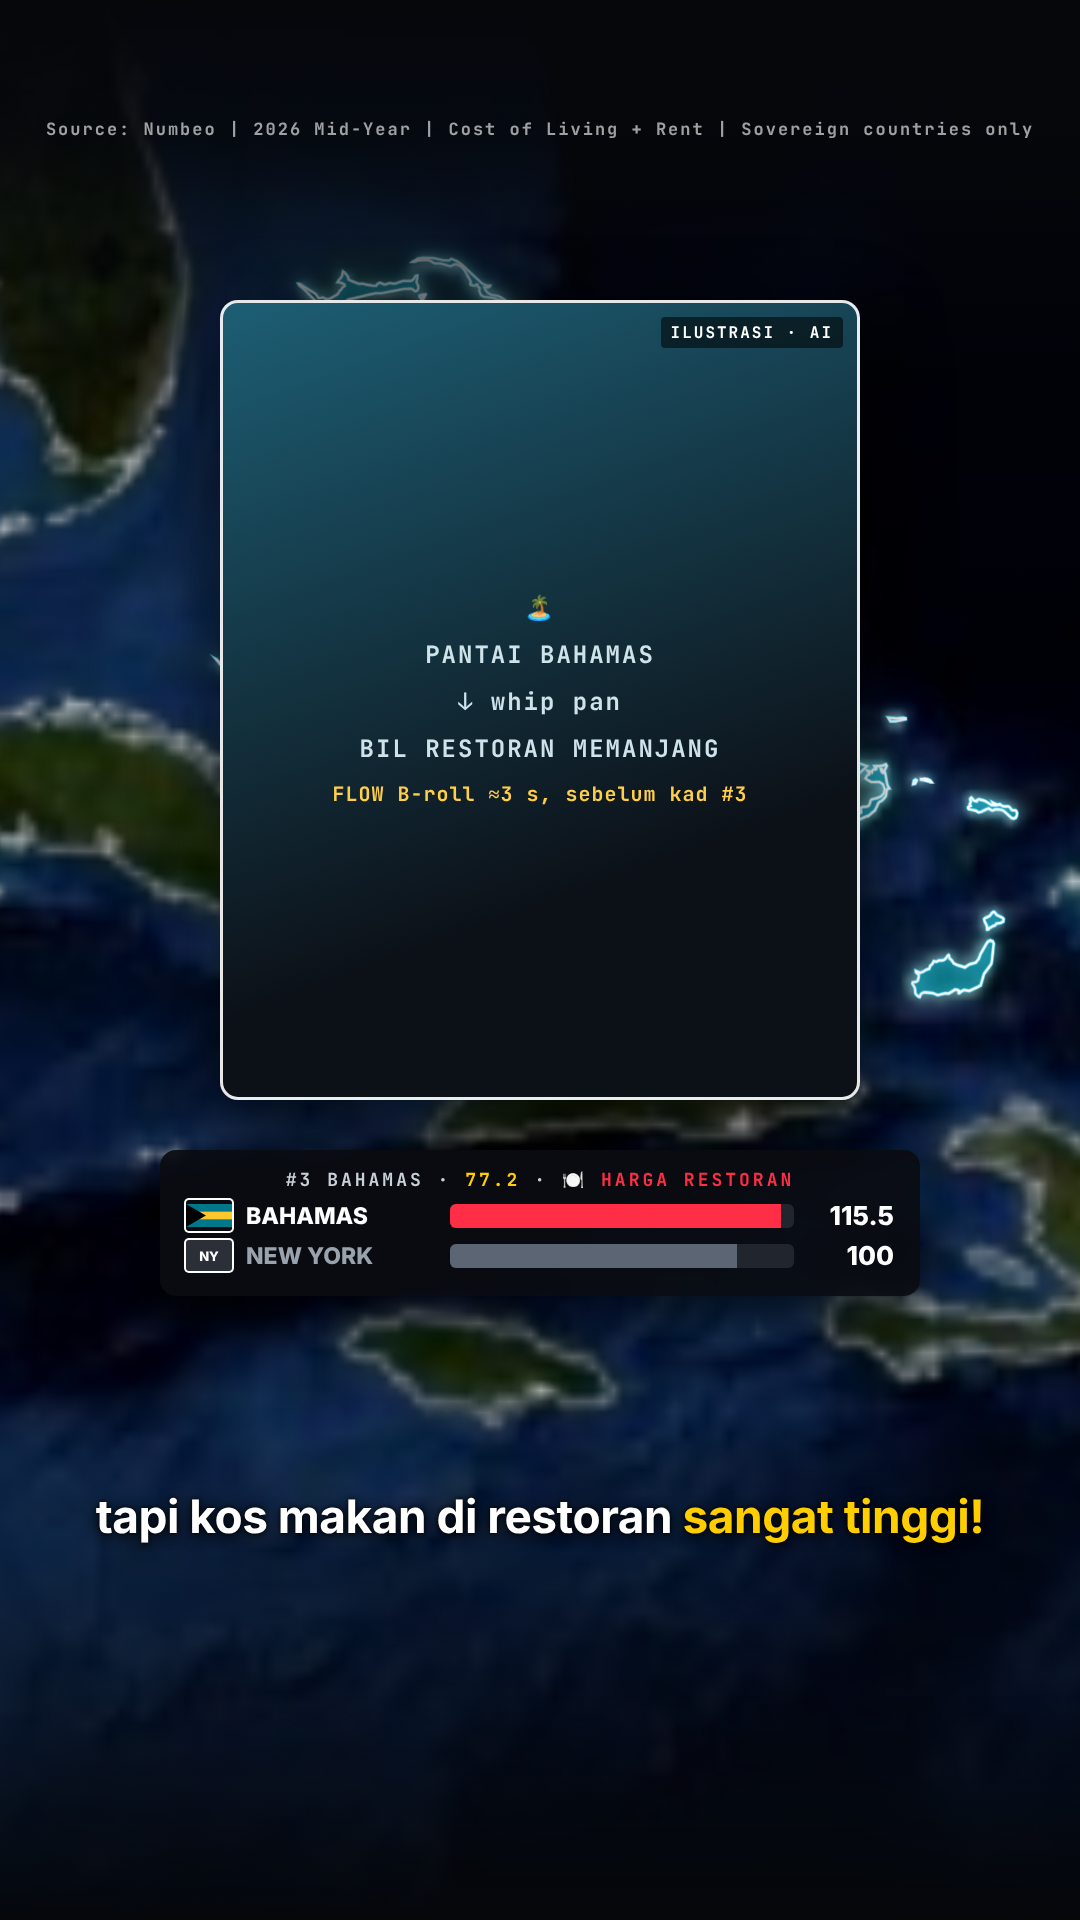
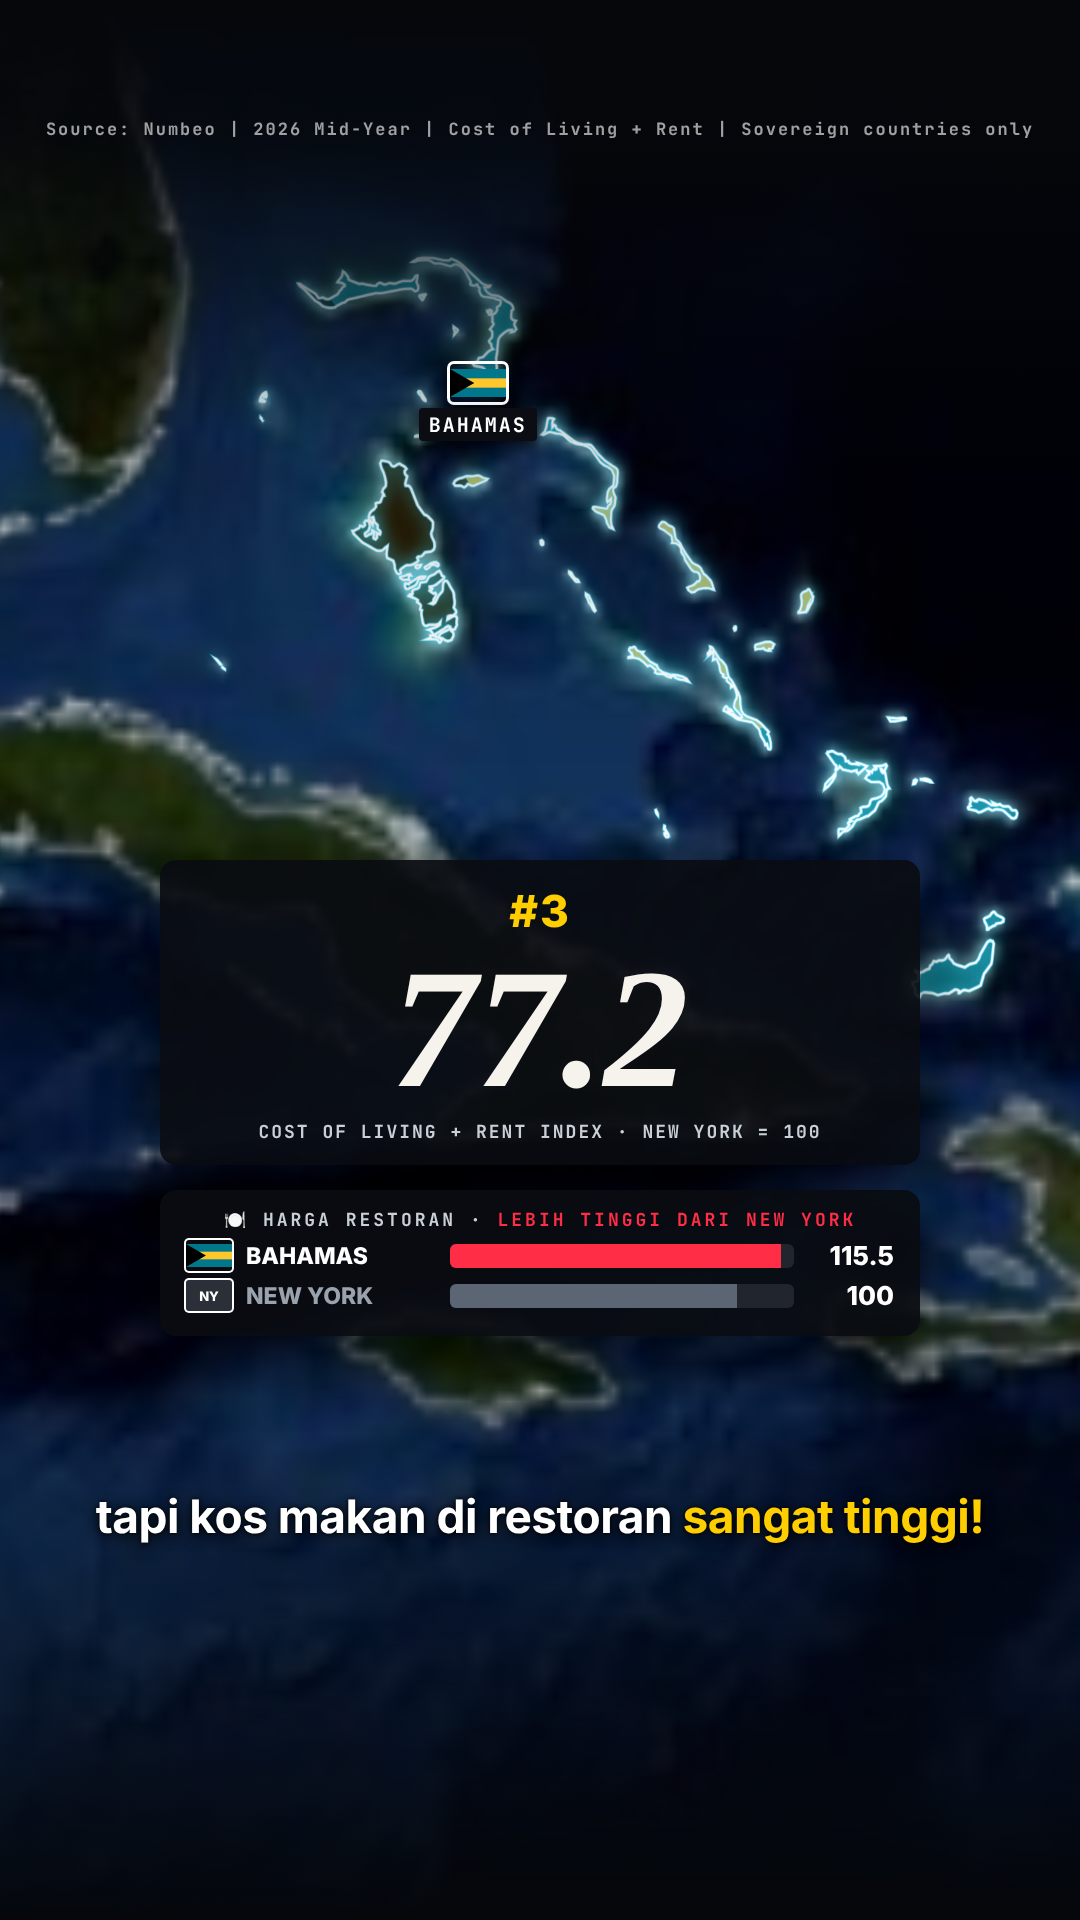
negara-mahal-video: drop B-roll, Bahamas as a normal map + rank card
Claude-Session: https://claude.ai/code/session_01GRVCpVLeEipRvyW43UFZDP

Changed region(s): [[0.1222, 0.1562, 0.8861, 0.7188]]

diff --git a/negara-mahal-video/boards/storyboard.html b/negara-mahal-video/boards/storyboard.html
@@ -23,14 +23,14 @@ h1{font:800 46px Inter;letter-spacing:-1px}h1 span{color:#ffce00}
 <div class="f"><img src="frame-01.png"><div><div class="n">01 · 0:00</div><div class="t">Hook A: resit</div><div class="vo">"Kau ingat Amerika atau Jepun negara paling mahal untuk hidup?"</div><div class="fx">Resit panjang terjulur, 5 tanda harga <b>merah</b> terbang masuk. Bunyi printer + tick laju.</div></div></div>
 <div class="f"><img src="frame-02.png"><div><div class="n">02 · 0:02</div><div class="t">Hook B: SALAH</div><div class="vo">"Salah! Dua-dua tak masuk Top 5. Dan nombor lima ni memang tak disangka!"</div><div class="fx">Glob pusing AS → Jepun, bendera, <b>impact hit</b> + cop <b>✕ SALAH</b>. Tajuk <b>DUA-DUA TAK MASUK TOP 5</b>.</div></div></div>
 <div class="f"><img src="frame-03.png"><div><div class="n">03 · 0:05</div><div class="t">Tajuk</div><div class="vo">"Ini lima negara paling mahal untuk hidup tahun 2026, termasuk kos sewa rumah!"</div><div class="fx">Glob dari gelap, <b>tiada negara ditanda</b>. <b>TOP 5</b> emas, chip <b>2026 · TERMASUK SEWA</b>.</div></div></div>
-<div class="f"><img src="frame-04.png"><div><div class="n">04 · 0:07</div><div class="t">#5 Turkmenistan</div><div class="vo">"Nombor lima, Turkmenistan! Indeks 66.1. Peliknya, indeks harga barang dapur… lebih tinggi daripada New York!"</div><div class="fx">Fly-to + B-roll AI Ashgabat 2 s. <b>#5 · 66.1</b> count-up, bar <b>116.3 vs NY 100</b>.</div></div></div>
-<div class="f"><img src="frame-05.png"><div><div class="n">05 · 0:13</div><div class="t">#4 Iceland</div><div class="vo">"Nombor empat, Iceland! Indeks 74.8. Pemandangan memang cantik, tapi harga barang dapur boleh buat kau terkejut!"</div><div class="fx"><b>Snow/smoke dissolve</b>, B-roll AI lava + salji. <b>#4 · 74.8</b>, 🛒 <b>106.3 vs 100</b>.</div></div></div>
-<div class="f"><img src="frame-06.png"><div><div class="n">06 · 0:18</div><div class="t">#3 Bahamas</div><div class="vo">"Nombor tiga, Bahamas! Indeks 77.2. Nampak macam syurga percutian, tapi kos makan di restoran sangat tinggi!"</div><div class="fx">Tetingkap B-roll: <b>pantai → whip pan → bil restoran</b>. <b>#3 · 77.2</b>, 🍽 <b>115.5 vs 100</b>.</div></div></div>
+<div class="f"><img src="frame-04.png"><div><div class="n">04 · 0:07</div><div class="t">#5 Turkmenistan</div><div class="vo">"Nombor lima, Turkmenistan! Indeks 66.1. Peliknya, indeks harga barang dapur… lebih tinggi daripada New York!"</div><div class="fx">Fly-to Asia Tengah, bendera isi negara. <b>#5 · 66.1</b> count-up, bar <b>116.3 vs NY 100</b>.</div></div></div>
+<div class="f"><img src="frame-05.png"><div><div class="n">05 · 0:13</div><div class="t">#4 Iceland</div><div class="vo">"Nombor empat, Iceland! Indeks 74.8. Pemandangan memang cantik, tapi harga barang dapur boleh buat kau terkejut!"</div><div class="fx"><b>Snow/smoke dissolve</b> + salji halus, bendera. <b>#4 · 74.8</b>, 🛒 <b>106.3 vs 100</b>.</div></div></div>
+<div class="f"><img src="frame-06.png"><div><div class="n">06 · 0:18</div><div class="t">#3 Bahamas</div><div class="vo">"Nombor tiga, Bahamas! Indeks 77.2. Nampak macam syurga percutian, tapi kos makan di restoran sangat tinggi!"</div><div class="fx"><b>Whip pan</b> ke Caribbean, pulau bercahaya biru. <b>#3 · 77.2</b>, 🍽 <b>115.5 vs 100</b>.</div></div></div>
 <div class="f"><img src="frame-07.png"><div><div class="n">07 · 0:24</div><div class="t">Re-hook</div><div class="vo">"Tapi tunggu! Negara nombor dua ni sebenarnya jiran sebelah Malaysia. Dan nombor satu… bukan negara Arab yang kaya minyak!"</div><div class="fx"><b>Muzik dip, freeze 0.4 s</b>, heartbeat + boom. Zum ke Asia Tenggara, <b>?</b> emas. <b>#2 = JIRAN KITA · #1 = ?</b></div></div></div>
-<div class="f"><img src="frame-08.png"><div><div class="n">08 · 0:29</div><div class="t">#2 Singapura</div><div class="vo">"Nombor dua, Singapura! Indeks 80.5. Kos sewa rumah memang antara yang tertinggi dalam senarai ni!"</div><div class="fx">Cincin emas, bendera, B-roll AI HDB 2 s. <b>#2 · 80.5</b>, 🏠 sewa SG <b>68.3</b> paling panjang.</div></div></div>
+<div class="f"><img src="frame-08.png"><div><div class="n">08 · 0:29</div><div class="t">#2 Singapura</div><div class="vo">"Nombor dua, Singapura! Indeks 80.5. Kos sewa rumah memang antara yang tertinggi dalam senarai ni!"</div><div class="fx">Cincin emas, bendera. <b>#2 · 80.5</b>, 🏠 sewa SG <b>68.3</b> paling panjang.</div></div></div>
 <div class="f"><img src="frame-09.png"><div><div class="n">09 · 0:35</div><div class="t">#1 Switzerland</div><div class="vo">"Dan nombor satu… Switzerland! Indeks 81.5. …kuasa beli penduduknya juga antara yang paling kuat!"</div><div class="fx">0.5 s senyap → <b>flash emas, cinematic hit</b>, kad 👑 <b>#1 · 81.5</b> bingkai emas. Kuasa beli <b>165.7 · #4 DI DUNIA</b>.</div></div></div>
 <div class="f"><img src="frame-10.png"><div><div class="n">10 · 0:43</div><div class="t">Plot twist</div><div class="vo">"Malaysia pula? Indeks kita cuma 22.4!"</div><div class="fx">Glob <b>fly home</b>. Dua kad masuk dari kiri dan kanan: <b>MALAYSIA 22.4 vs SINGAPURA 80.5</b>.</div></div></div>
 <div class="f"><img src="frame-11.png"><div><div class="n">11 · 0:48</div><div class="t">CTA tunggal</div><div class="vo">"Jadi kalau diberi peluang dengan gaji yang sama, kau pilih hidup di Malaysia atau Singapura? Komen pilihan kau!"</div><div class="fx">Satu kad soalan bingkai emas, <b>KOMEN PILIHAN KAU ↓</b>. Tiada sticker lain, tiada outro follow.</div></div></div>
 </div>
-<div class="meta" style="margin-top:30px">#1 tak muncul sebelum 0:35 · setiap negara ada transisi dan bar perbandingan sendiri · count-up indeks · B-roll AI dalam tetingkap kecil · satu CTA sahaja</div>
+<div class="meta" style="margin-top:30px">#1 tak muncul sebelum 0:35 · setiap negara ada transisi dan bar perbandingan sendiri · count-up indeks · satu CTA sahaja</div>
 </body></html>

diff --git a/negara-mahal-video/boards/frame.html b/negara-mahal-video/boards/frame.html
@@ -266,9 +266,8 @@ const FR = {
     capB(`lima negara <span class="r">paling mahal</span> untuk hidup`); },
   4() { SC.tm(); capB(`Nombor lima, <span class="r">Turkmenistan!</span>`); },
   5() { SC.is(); capB(`harga barang dapur boleh buat kau <span class="r">terkejut!</span>`); },
-  6() { fill("bs", { glow: "#41e0ff", lw: 2.5 }); g.setView({ lat: 24.6, lon: -76.8, dist: 0.5, tilt: 14, yShift: 0.22 }); src();
-    html(`<div class="win2"><i>ILUSTRASI · AI</i>🏝<div>PANTAI BAHAMAS</div><div>↓ whip pan</div><div>BIL RESTORAN MEMANJANG</div><em>FLOW B-roll ≈3 s, sebelum kad #3</em></div>`);
-    cmp(1150, "#3 BAHAMAS · <span style='color:#ffce00'>77.2</span> · 🍽 <b>HARGA RESTORAN</b>", [["bs", "BAHAMAS", 115.5, "hot"], ["ny", "NEW YORK", 100]], 120);
+  6() { fill("bs", { glow: "#41e0ff", lw: 2.5 }); g.setView({ lat: 24.6, lon: -76.8, dist: 0.5, tilt: 14, yShift: 0.22 }); flagPin(25.05, -77.35, "bs", "BAHAMAS", -40); src();
+    rank(3, "77.2"); cmp(1190, "🍽 HARGA RESTORAN · <b>LEBIH TINGGI DARI NEW YORK</b>", [["bs", "BAHAMAS", 115.5, "hot"], ["ny", "NEW YORK", 100]], 120);
     capB(`tapi kos makan di restoran <span class="r">sangat tinggi!</span>`); },
   7() { malaysiaFlag(); fill("sg", { alpha: 0, glow: "#ffce00", lw: 4 }); g.setView({ lat: 3.6, lon: 106, dist: 1.15, tilt: 8, yShift: 0.12 });
     const p = g.project(1.35, 103.82); html(`<div class="qpin" style="left:${p.x}px;top:${p.y + 40}px;border-color:#ffce00;color:#ffce00">?</div>`);

diff --git a/negara-mahal-video/SCRIPT.md b/negara-mahal-video/SCRIPT.md
@@ -3,7 +3,7 @@
 Gaya: **MAP ANIMATION**, kiraan menurun 5 → 1 (enjin dan rupa video nuklear), **ikut brief ChatGPT**
 (`CLAUDE_BRIEF_TOP5_NEGARA_PALING_MAHAL_HIDUP_2026.md`): palet navy/charcoal + emas + putih hangat, merah hanya
 untuk harga; hook resit; kad tajuk; re-hook; reveal #1 emas; Malaysia vs Singapura bersebelahan; satu CTA sahaja.
-Tiada karikatur. Sasaran 50–55 s. Data disemak semula: `research/top5-negara-mahal-2026.md`.
+Tiada karikatur, **tiada B-roll** (peta + kad sahaja, macam biasa). Sasaran 50–55 s. Data disemak semula: `research/top5-negara-mahal-2026.md`.
 
 ## 1. VO final (skrip ChatGPT, fakta semua ✅)
 
@@ -42,12 +42,12 @@ Switzerland kuasa beli 165.7 = **nombor 4 di dunia** (selepas Angola, Kuwait, Qa
 | 0:00–0:02.5 | Hook A | Resit panjang terjulur dari atas, 5 tanda harga merah terbang masuk, glob gelap di belakang | Cut keras dari hitam | Bunyi printer resit, tick harga laju | (tiada, hanya sari kata) |
 | 0:02.5–0:05 | Hook B | Glob pusing laju AS → Jepun, bendera isi negara | Resit dirobek ke atas, whoosh | **Impact hit pada "Salah!"**, cop ✕ SALAH ×2 | **DUA-DUA TAK MASUK TOP 5** |
 | 0:05–0:07 | Tajuk | Glob tarik keluar dari gelap, **tiada negara ditanda** | Flash putih halus | Dramatic whoosh, beat masuk | **TOP 5** emas · NEGARA PALING MAHAL UNTUK HIDUP · chip `2026 · TERMASUK SEWA` |
-| 0:07–0:13 | #5 Turkmenistan | Fly-to Asia Tengah, zum punch pada nombor; B-roll AI Ashgabat 2 s | Map whoosh | Number ticks count-up 0→66.1 | `#5` · **66.1** · bar barang dapur 116.3 vs NY 100 (merah) |
-| 0:13–0:18 | #4 Iceland | Fly-to Atlantik Utara; B-roll AI salji/lava 2 s | **Snow/smoke dissolve** (bukan cut macam #5) | Angin sejuk, ticks | `#4` · **74.8** · 🛒 106.3 vs 100 |
-| 0:18–0:24 | #3 Bahamas | Pulau bercahaya biru; tetingkap B-roll: pantai → whip pan → resit restoran memanjang | Whip pan | Ombak → cash register "ka-ching" | `#3` · **77.2** · 🍽 115.5 vs 100 |
+| 0:07–0:13 | #5 Turkmenistan | Fly-to Asia Tengah, bendera isi negara, zum punch pada nombor | Map whoosh | Number ticks count-up 0→66.1 | `#5` · **66.1** · bar barang dapur 116.3 vs NY 100 (merah) |
+| 0:13–0:18 | #4 Iceland | Fly-to Atlantik Utara, bendera, partikel salji halus di depan kamera | **Snow/smoke dissolve** (bukan cut macam #5) | Angin sejuk, ticks | `#4` · **74.8** · 🛒 106.3 vs 100 |
+| 0:18–0:24 | #3 Bahamas | Fly-to Caribbean, pulau-pulau bercahaya biru, bendera | Whip pan | Ombak → cash register "ka-ching" | `#3` · **77.2** · 🍽 115.5 vs 100 |
 | 0:24–0:29 | Re-hook | **Muzik dip, freeze 0.4 s**, glob pusing pantas ke Asia Tenggara; Malaysia bendera, bulatan emas **?** di selatan | Zum laju + vignette navy | Heartbeat + low boom, riser | **TAPI TUNGGU… · #2 = JIRAN KITA · #1 = ?** · BUKAN NEGARA ARAB KAYA MINYAK |
-| 0:29–0:35 | #2 Singapura | Zum ke selatan Semenanjung, cincin emas, bendera; B-roll AI HDB/skyline 2 s | Push-in | Riser lepas, ticks | `#2` · **80.5** · 🏠 bar sewa 4 negara, SG 68.3 paling panjang |
-| 0:35–0:43 | #1 Switzerland | Pause, terbang ke Eropah, **tint emas**, slow push-in; B-roll AI Alps 2 s | Gold light sweep | **Cinematic hit paling besar**, muzik naik penuh | 👑 `#1` · **81.5** bingkai emas · 💪 kuasa beli 165.7 vs NY 100 · **#4 DI DUNIA** |
+| 0:29–0:35 | #2 Singapura | Zum ke selatan Semenanjung, cincin emas, bendera | Push-in | Riser lepas, ticks | `#2` · **80.5** · 🏠 bar sewa 4 negara, SG 68.3 paling panjang |
+| 0:35–0:43 | #1 Switzerland | Pause, terbang ke Eropah, **tint emas**, slow push-in | Gold light sweep | **Cinematic hit paling besar**, muzik naik penuh | 👑 `#1` · **81.5** bingkai emas · 💪 kuasa beli 165.7 vs NY 100 · **#4 DI DUNIA** |
 | 0:43–0:48 | Plot twist | Glob "fly home" ke Malaysia, Malaysia + Singapura dilukis serentak | Whoosh pulang | Dua count-up serentak, Malaysia berhenti awal | **MALAYSIA 22.4 vs SINGAPURA 80.5** |
 | 0:48–0:55 | CTA | Glob dim, satu kad soalan bingkai emas | Fade | Muzik turun, satu nada akhir | **KALAU GAJI SAMA: MALAYSIA ATAU SINGAPURA? · KOMEN PILIHAN KAU ↓** |
 
@@ -67,25 +67,7 @@ Sari kata: jalur bawah y≈1490, kata kunci emas. Semua kad tamat ≤ y 1420 (zo
 - **Reveal #1:** 0.5 s senyap → flash emas → kad bingkai emas mendarat dengan shake kecil → light sweep → count-up.
 - **Penutup:** dua kad Malaysia vs Singapura masuk dari kiri dan kanan, kemudian satu kad soalan.
 
-## 4. Prompt Google Flow (visual sahaja, tiada teks/nombor; setiap klip ≤ 8 s, jauh bawah had 15 s)
-
-Semua: *9:16 vertical, cinematic documentary, dark moody grade, no text, no captions, no numbers, no logos, no readable
-signs, no flags, no recognisable real people.* Klip dimainkan dalam tetingkap kecil (640×800) atas peta, label "ILUSTRASI · AI".
-
-| Babak | Image prompt (still / first frame) | Video prompt |
-|---|---|---|
-| Hook | Extreme close-up of a very long paper shopping receipt curling off a counter, a hand pulling cash from a leather wallet beside a full grocery bag, shallow depth of field, warm low light. | Close-up as a long receipt keeps printing and spilling off the counter while price stickers are slapped onto groceries in quick succession, a hand hesitates over an empty wallet, fast handheld push-in, 4 s. |
-| #5 Turkmenistan | Wide view of a city of white marble buildings with gold domes and very wide empty boulevards under a clear desert sky. | Slow aerial drift forward over the white marble city and empty boulevards, then a cut to a market stall with a basket of vegetables and bread, warm afternoon light, 5 s. |
-| #4 Iceland | Black lava field and snowy volcanic mountains above a small colourful town on a fjord, low winter sun. | Aerial glide over snow and steaming lava fields towards the small fjord town, drifting snow in the foreground, then a supermarket trolley rolling slowly down an aisle, 5 s. |
-| #3 Bahamas | Turquoise shallow water, white sand beach and palm trees seen from above, bright sun. | Drone push over the turquoise beach, whip pan into a seaside restaurant where a long paper bill slides across a wooden table next to a seafood plate, 5 s. |
-| #2 Singapura | Dense high-rise public housing blocks at dusk with hundreds of lit windows, modern skyline behind. | Slow upward tilt along a tall apartment block with lit windows to a glowing modern skyline at blue hour, light traffic trails below, 5 s. |
-| #1 Switzerland | Dramatic snowy alpine peaks above a clean lakeside city at golden hour. | Sweeping aerial over the Alps at golden hour, descending towards a calm lake city, sun flare, 6 s. |
-| Plot twist (pilihan) | Warm evening street with shophouses and a hawker stall in a Southeast Asian town, no signs readable. | Gentle forward walk past a busy hawker stall at dusk, steam rising from woks, 4 s. |
-
-Klip Flow masuk ke `assets/broll/` (re-encode `scale=1080:1920,fps=30 -g 15 -an`). Kalau tak sempat buat semua, video
-tetap jalan dengan peta dan kad sahaja; B-roll cuma tambah variasi.
-
-## 5. Caption posting
+## 4. Caption posting
 
 > Amerika? Jepun? Dua-dua tak masuk Top 5 negara paling mahal untuk hidup 2026 🌍
 > Nombor dua jiran kita sendiri. Kalau gaji sama, kau pilih Malaysia atau Singapura? 👇
